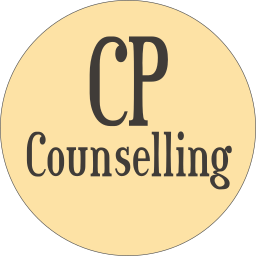
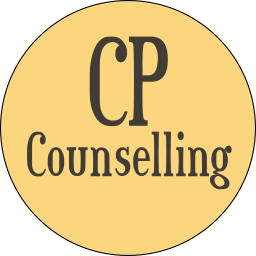
updated navbar

diff --git a/contact.html b/contact.html
@@ -25,7 +25,7 @@
     <nav class="navbar navbar-expand-lg fixed-top navbar-transparent" color-on-scroll="100">
         <div class="container">
 			<div class="navbar-translate">
-				<a class="navbar-brand" href="https://cprinsloocounselling.ch">Chantal Prinsloo Counselling<small>Counselling in English for adolescents and young adults in Geneva</small></a>
+				<a class="navbar-brand pull-left" href="https://cprinsloocounselling.ch"><img id="brand-logo" src="assets/img/brand.png" title="CHANTAL PRINSLOO Counselling - counselling for adolescents and young adults in Geneva" alt="CHANTAL PRINSLOO Counselling - counselling for adolescents and young adults in Geneva" style="height: 100%; padding: 10px; " ></a>
 	            <button class="navbar-toggler navbar-toggler-right navbar-burger" type="button" data-toggle="collapse" data-target="#navbarToggler" aria-controls="navbarTogglerDemo02" aria-expanded="false" aria-label="Toggle navigation">
 					<span class="navbar-toggler-bar"></span>
 					<span class="navbar-toggler-bar"></span>
@@ -63,7 +63,7 @@
                 <div class="container">
                     <div class="row">
                         <div class="col-md-8 ml-auto mr-auto">
-                            <h2 class="text-center">Contact</h2>
+                            <h3 class="title text-center">Contact</h3>
                             <form class="contact-form">
                                 <div class="row">
                                     <div class="col-md-6">

diff --git a/index.html b/index.html
@@ -25,7 +25,7 @@
     <nav class="navbar navbar-expand-lg fixed-top navbar-transparent" color-on-scroll="100">
         <div class="container">
 			<div class="navbar-translate">
-				<a class="navbar-brand pull-left" href="https://cprinsloocounselling.ch"><img src="assets/img/cpcounselling.png" style="height: 100%; padding: 10px;  width: 100px;" >Chantal Prinsloo Counselling<small>Counselling in English for adolescents and young adults in Geneva</small></a>
+				<a class="navbar-brand pull-left" href="https://cprinsloocounselling.ch"><img id="brand-logo" src="assets/img/brand.png" title="CHANTAL PRINSLOO Counselling - counselling for adolescents and young adults in Geneva" alt="CHANTAL PRINSLOO Counselling - counselling for adolescents and young adults in Geneva" style="height: 100%; padding: 10px; " ></a>
 	            <button class="navbar-toggler navbar-toggler-right navbar-burger" type="button" data-toggle="collapse" data-target="#navbarToggler" aria-controls="navbarTogglerDemo02" aria-expanded="false" aria-label="Toggle navigation">
 					<span class="navbar-toggler-bar"></span>
 					<span class="navbar-toggler-bar"></span>

diff --git a/about-me.html b/about-me.html
@@ -25,7 +25,7 @@
     <nav class="navbar navbar-expand-lg fixed-top navbar-transparent" color-on-scroll="100">
         <div class="container">
 			<div class="navbar-translate">
-				<a class="navbar-brand" href="https://cprinsloocounselling.ch">Chantal Prinsloo Counselling<small>Counselling in English for adolescents and young adults in Geneva</small></a>
+				<a class="navbar-brand pull-left" href="https://cprinsloocounselling.ch"><img id="brand-logo" src="assets/img/brand.png" title="CHANTAL PRINSLOO Counselling - counselling for adolescents and young adults in Geneva" alt="CHANTAL PRINSLOO Counselling - counselling for adolescents and young adults in Geneva" style="height: 100%; padding: 10px; " ></a>
 	            <button class="navbar-toggler navbar-toggler-right navbar-burger" type="button" data-toggle="collapse" data-target="#navbarToggler" aria-controls="navbarTogglerDemo02" aria-expanded="false" aria-label="Toggle navigation">
 					<span class="navbar-toggler-bar"></span>
 					<span class="navbar-toggler-bar"></span>

diff --git a/practicalities.html b/practicalities.html
@@ -25,7 +25,7 @@
     <nav class="navbar navbar-expand-lg fixed-top navbar-transparent" color-on-scroll="100">
         <div class="container">
 			<div class="navbar-translate">
-				<a class="navbar-brand" href="https://cprinsloocounselling.ch">Chantal Prinsloo Counselling<small>Counselling in English for adolescents and young adults in Geneva</small></a>
+				<a class="navbar-brand pull-left" href="https://cprinsloocounselling.ch"><img id="brand-logo" src="assets/img/brand.png" title="CHANTAL PRINSLOO Counselling - counselling for adolescents and young adults in Geneva" alt="CHANTAL PRINSLOO Counselling - counselling for adolescents and young adults in Geneva" style="height: 100%; padding: 10px; " ></a>
 	            <button class="navbar-toggler navbar-toggler-right navbar-burger" type="button" data-toggle="collapse" data-target="#navbarToggler" aria-controls="navbarTogglerDemo02" aria-expanded="false" aria-label="Toggle navigation">
 					<span class="navbar-toggler-bar"></span>
 					<span class="navbar-toggler-bar"></span>

diff --git a/services.html b/services.html
@@ -25,7 +25,7 @@
     <nav class="navbar navbar-expand-lg fixed-top navbar-transparent" color-on-scroll="100">
         <div class="container">
 			<div class="navbar-translate">
-				<a class="navbar-brand" href="https://cprinsloocounselling.ch">Chantal Prinsloo Counselling<small>Counselling in English for adolescents and young adults in Geneva</small></a>
+				<a class="navbar-brand pull-left" href="https://cprinsloocounselling.ch"><img id="brand-logo" src="assets/img/brand.png" title="CHANTAL PRINSLOO Counselling - counselling for adolescents and young adults in Geneva" alt="CHANTAL PRINSLOO Counselling - counselling for adolescents and young adults in Geneva" style="height: 100%; padding: 10px; " ></a>
 	            <button class="navbar-toggler navbar-toggler-right navbar-burger" type="button" data-toggle="collapse" data-target="#navbarToggler" aria-controls="navbarTogglerDemo02" aria-expanded="false" aria-label="Toggle navigation">
 					<span class="navbar-toggler-bar"></span>
 					<span class="navbar-toggler-bar"></span>

diff --git a/assets/js/paper-kit.js b/assets/js/paper-kit.js
@@ -139,6 +139,7 @@ pk = {
                 if(transparent) {
                     transparent = false;
                     $('.navbar[color-on-scroll]').removeClass('navbar-transparent');
+                    $('#brand-logo').attr('src',"assets/img/brand-inverted.png");
                     $('.carousel').carousel({
                         pause: true,
                         interval: false
@@ -149,6 +150,7 @@ pk = {
                 if( !transparent ) {
                     transparent = true;
                     $('.navbar[color-on-scroll]').addClass('navbar-transparent');
+                    $('#brand-logo').attr('src',"assets/img/brand.png");
                     $('.carousel').carousel({
                         pause: false,
                         interval: 4000

diff --git a/assets/css/paper-kit.css b/assets/css/paper-kit.css
@@ -89,6 +89,9 @@ div.motto > div.card{
     .page-header.girl {
         background-position-x: -200px !important; 
     }
+    #brand-logo{
+        width: 100%;
+    }
 }
 
 div.carousel-caption > p {
